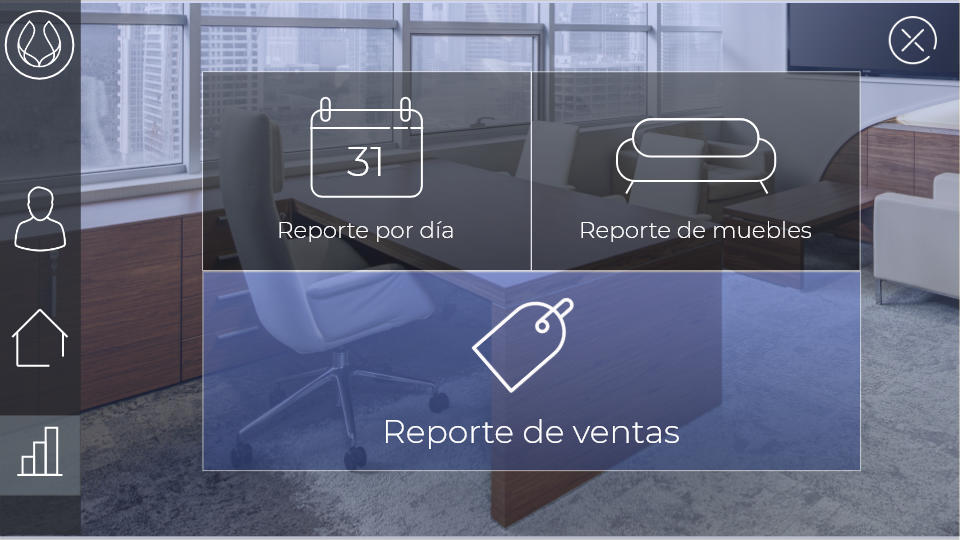
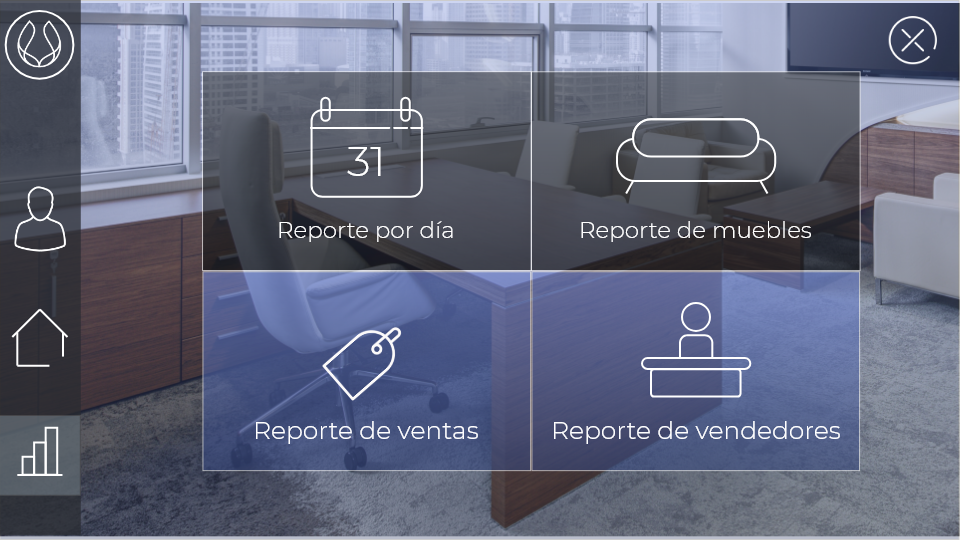
Improvements

diff --git a/P&M/src/view/Employee/ManagerMenu.java b/P&M/src/view/Employee/ManagerMenu.java
@@ -8,6 +8,7 @@ package view.Employee;
 import view.Branch.ListBranches;
 import view.Branch.ModifyBranch;
 import view.Branch.AddBranch;
+import view.Seller.ReportSellers;
 import controller.*;
 /**
  *
@@ -34,6 +35,15 @@ public class ManagerMenu extends javax.swing.JFrame {
     // <editor-fold defaultstate="collapsed" desc="Generated Code">//GEN-BEGIN:initComponents
     private void initComponents() {
 
+        reportOptionPanel = new javax.swing.JPanel();
+        reportDayLabel = new javax.swing.JLabel();
+        furnitureReportLabel = new javax.swing.JLabel();
+        totalReportLabel = new javax.swing.JLabel();
+        userLabel1 = new javax.swing.JLabel();
+        branchLabel1 = new javax.swing.JLabel();
+        exitBranch1 = new javax.swing.JLabel();
+        sellerReport = new javax.swing.JLabel();
+        reportBackground = new javax.swing.JLabel();
         userOptionPanel = new javax.swing.JPanel();
         addLabel = new javax.swing.JLabel();
         searchLabel = new javax.swing.JLabel();
@@ -43,14 +53,6 @@ public class ManagerMenu extends javax.swing.JFrame {
         branchLabel = new javax.swing.JLabel();
         reportLabel = new javax.swing.JLabel();
         userBackground = new javax.swing.JLabel();
-        reportOptionPanel = new javax.swing.JPanel();
-        reportDayLabel = new javax.swing.JLabel();
-        furnitureReportLabel = new javax.swing.JLabel();
-        totalReportLabel = new javax.swing.JLabel();
-        userLabel1 = new javax.swing.JLabel();
-        branchLabel1 = new javax.swing.JLabel();
-        exitBranch1 = new javax.swing.JLabel();
-        reportBackground = new javax.swing.JLabel();
         branchOptionPanel = new javax.swing.JPanel();
         addBranchLabel = new javax.swing.JLabel();
         searchBranchLabel = new javax.swing.JLabel();
@@ -63,6 +65,62 @@ public class ManagerMenu extends javax.swing.JFrame {
         setDefaultCloseOperation(javax.swing.WindowConstants.EXIT_ON_CLOSE);
         setUndecorated(true);
         getContentPane().setLayout(new org.netbeans.lib.awtextra.AbsoluteLayout());
+
+        reportOptionPanel.setLayout(new org.netbeans.lib.awtextra.AbsoluteLayout());
+
+        reportDayLabel.addMouseListener(new java.awt.event.MouseAdapter() {
+            public void mouseClicked(java.awt.event.MouseEvent evt) {
+                reportDayLabelMouseClicked(evt);
+            }
+        });
+        reportOptionPanel.add(reportDayLabel, new org.netbeans.lib.awtextra.AbsoluteConstraints(201, 70, 330, 200));
+
+        furnitureReportLabel.addMouseListener(new java.awt.event.MouseAdapter() {
+            public void mouseClicked(java.awt.event.MouseEvent evt) {
+                furnitureReportLabelMouseClicked(evt);
+            }
+        });
+        reportOptionPanel.add(furnitureReportLabel, new org.netbeans.lib.awtextra.AbsoluteConstraints(530, 70, 330, 200));
+
+        totalReportLabel.addMouseListener(new java.awt.event.MouseAdapter() {
+            public void mouseClicked(java.awt.event.MouseEvent evt) {
+                totalReportLabelMouseClicked(evt);
+            }
+        });
+        reportOptionPanel.add(totalReportLabel, new org.netbeans.lib.awtextra.AbsoluteConstraints(200, 270, 330, 200));
+
+        userLabel1.addMouseListener(new java.awt.event.MouseAdapter() {
+            public void mouseClicked(java.awt.event.MouseEvent evt) {
+                userLabel1MouseClicked(evt);
+            }
+        });
+        reportOptionPanel.add(userLabel1, new org.netbeans.lib.awtextra.AbsoluteConstraints(10, 180, 60, 80));
+
+        branchLabel1.addMouseListener(new java.awt.event.MouseAdapter() {
+            public void mouseClicked(java.awt.event.MouseEvent evt) {
+                branchLabel1MouseClicked(evt);
+            }
+        });
+        reportOptionPanel.add(branchLabel1, new org.netbeans.lib.awtextra.AbsoluteConstraints(10, 300, 60, 80));
+
+        exitBranch1.addMouseListener(new java.awt.event.MouseAdapter() {
+            public void mouseClicked(java.awt.event.MouseEvent evt) {
+                exitBranch1MouseClicked(evt);
+            }
+        });
+        reportOptionPanel.add(exitBranch1, new org.netbeans.lib.awtextra.AbsoluteConstraints(890, 20, 50, 50));
+
+        sellerReport.addMouseListener(new java.awt.event.MouseAdapter() {
+            public void mouseClicked(java.awt.event.MouseEvent evt) {
+                sellerReportMouseClicked(evt);
+            }
+        });
+        reportOptionPanel.add(sellerReport, new org.netbeans.lib.awtextra.AbsoluteConstraints(530, 270, 330, 200));
+
+        reportBackground.setIcon(new javax.swing.ImageIcon(getClass().getResource("/ui_resources/Manager Menu - Reports.png"))); // NOI18N
+        reportOptionPanel.add(reportBackground, new org.netbeans.lib.awtextra.AbsoluteConstraints(0, 0, 960, 540));
+
+        getContentPane().add(reportOptionPanel, new org.netbeans.lib.awtextra.AbsoluteConstraints(0, 0, 960, 540));
 
         userOptionPanel.setLayout(new org.netbeans.lib.awtextra.AbsoluteLayout());
 
@@ -119,55 +177,6 @@ public class ManagerMenu extends javax.swing.JFrame {
         userOptionPanel.add(userBackground, new org.netbeans.lib.awtextra.AbsoluteConstraints(0, 0, -1, -1));
 
         getContentPane().add(userOptionPanel, new org.netbeans.lib.awtextra.AbsoluteConstraints(0, 0, -1, -1));
-
-        reportOptionPanel.setLayout(new org.netbeans.lib.awtextra.AbsoluteLayout());
-
-        reportDayLabel.addMouseListener(new java.awt.event.MouseAdapter() {
-            public void mouseClicked(java.awt.event.MouseEvent evt) {
-                reportDayLabelMouseClicked(evt);
-            }
-        });
-        reportOptionPanel.add(reportDayLabel, new org.netbeans.lib.awtextra.AbsoluteConstraints(201, 70, 330, 200));
-
-        furnitureReportLabel.addMouseListener(new java.awt.event.MouseAdapter() {
-            public void mouseClicked(java.awt.event.MouseEvent evt) {
-                furnitureReportLabelMouseClicked(evt);
-            }
-        });
-        reportOptionPanel.add(furnitureReportLabel, new org.netbeans.lib.awtextra.AbsoluteConstraints(530, 70, 330, 200));
-
-        totalReportLabel.addMouseListener(new java.awt.event.MouseAdapter() {
-            public void mouseClicked(java.awt.event.MouseEvent evt) {
-                totalReportLabelMouseClicked(evt);
-            }
-        });
-        reportOptionPanel.add(totalReportLabel, new org.netbeans.lib.awtextra.AbsoluteConstraints(200, 270, 660, 200));
-
-        userLabel1.addMouseListener(new java.awt.event.MouseAdapter() {
-            public void mouseClicked(java.awt.event.MouseEvent evt) {
-                userLabel1MouseClicked(evt);
-            }
-        });
-        reportOptionPanel.add(userLabel1, new org.netbeans.lib.awtextra.AbsoluteConstraints(10, 180, 60, 80));
-
-        branchLabel1.addMouseListener(new java.awt.event.MouseAdapter() {
-            public void mouseClicked(java.awt.event.MouseEvent evt) {
-                branchLabel1MouseClicked(evt);
-            }
-        });
-        reportOptionPanel.add(branchLabel1, new org.netbeans.lib.awtextra.AbsoluteConstraints(10, 300, 60, 80));
-
-        exitBranch1.addMouseListener(new java.awt.event.MouseAdapter() {
-            public void mouseClicked(java.awt.event.MouseEvent evt) {
-                exitBranch1MouseClicked(evt);
-            }
-        });
-        reportOptionPanel.add(exitBranch1, new org.netbeans.lib.awtextra.AbsoluteConstraints(890, 20, 50, 50));
-
-        reportBackground.setIcon(new javax.swing.ImageIcon(getClass().getResource("/ui_resources/Manager Menu - Reports.png"))); // NOI18N
-        reportOptionPanel.add(reportBackground, new org.netbeans.lib.awtextra.AbsoluteConstraints(0, 0, 960, 540));
-
-        getContentPane().add(reportOptionPanel, new org.netbeans.lib.awtextra.AbsoluteConstraints(0, 0, 960, 540));
 
         branchOptionPanel.setLayout(new org.netbeans.lib.awtextra.AbsoluteLayout());
 
@@ -324,6 +333,12 @@ public class ManagerMenu extends javax.swing.JFrame {
         this.reportOptionPanel.setVisible(true);
     }//GEN-LAST:event_reportBranchLabelMouseClicked
 
+    private void sellerReportMouseClicked(java.awt.event.MouseEvent evt) {//GEN-FIRST:event_sellerReportMouseClicked
+        ReportSellers report = new ReportSellers(controller_);
+        report.setLocationRelativeTo(null);
+        report.setVisible(true);
+    }//GEN-LAST:event_sellerReportMouseClicked
+
 
     // Variables declaration - do not modify//GEN-BEGIN:variables
     private javax.swing.JLabel addBranchLabel;
@@ -346,6 +361,7 @@ public class ManagerMenu extends javax.swing.JFrame {
     private javax.swing.JPanel reportOptionPanel;
     private javax.swing.JLabel searchBranchLabel;
     private javax.swing.JLabel searchLabel;
+    private javax.swing.JLabel sellerReport;
     private javax.swing.JLabel totalReportLabel;
     private javax.swing.JLabel userBackground;
     private javax.swing.JLabel userLabel;

diff --git a/P&M/src/view/Employee/AddEmployee.java b/P&M/src/view/Employee/AddEmployee.java
@@ -71,7 +71,7 @@ public class AddEmployee extends javax.swing.JFrame {
                 idTextFieldKeyTyped(evt);
             }
         });
-        getContentPane().add(idTextField, new org.netbeans.lib.awtextra.AbsoluteConstraints(50, 100, 230, 30));
+        getContentPane().add(idTextField, new org.netbeans.lib.awtextra.AbsoluteConstraints(40, 100, 240, 30));
 
         nameTextField.setBackground(new java.awt.Color(255, 255, 255, 0));
         nameTextField.setForeground(new java.awt.Color(255, 255, 255));
@@ -86,12 +86,12 @@ public class AddEmployee extends javax.swing.JFrame {
                 nameTextFieldKeyTyped(evt);
             }
         });
-        getContentPane().add(nameTextField, new org.netbeans.lib.awtextra.AbsoluteConstraints(50, 170, 230, 30));
+        getContentPane().add(nameTextField, new org.netbeans.lib.awtextra.AbsoluteConstraints(40, 170, 240, 30));
 
         chargeCombo.setForeground(new java.awt.Color(44, 47, 51));
         chargeCombo.setModel(new javax.swing.DefaultComboBoxModel<>(new String[] { "-", "Vendedor", "Jefe de Taller" }));
         chargeCombo.setBorder(null);
-        getContentPane().add(chargeCombo, new org.netbeans.lib.awtextra.AbsoluteConstraints(50, 230, 230, 30));
+        getContentPane().add(chargeCombo, new org.netbeans.lib.awtextra.AbsoluteConstraints(40, 230, 240, 30));
 
         salaryTextField.setBackground(new java.awt.Color(255, 255, 255, 0));
         salaryTextField.setForeground(new java.awt.Color(255, 255, 255));
@@ -121,12 +121,12 @@ public class AddEmployee extends javax.swing.JFrame {
                 phoneNumberTextFieldKeyTyped(evt);
             }
         });
-        getContentPane().add(phoneNumberTextField, new org.netbeans.lib.awtextra.AbsoluteConstraints(50, 360, 240, 30));
+        getContentPane().add(phoneNumberTextField, new org.netbeans.lib.awtextra.AbsoluteConstraints(40, 360, 240, 30));
 
         passwordField.setBackground(new java.awt.Color(255, 255, 255, 0));
         passwordField.setForeground(new java.awt.Color(255, 255, 255));
         passwordField.setBorder(null);
-        getContentPane().add(passwordField, new org.netbeans.lib.awtextra.AbsoluteConstraints(50, 420, 240, 30));
+        getContentPane().add(passwordField, new org.netbeans.lib.awtextra.AbsoluteConstraints(40, 420, 240, 30));
 
         addButton.addMouseListener(new java.awt.event.MouseAdapter() {
             public void mouseClicked(java.awt.event.MouseEvent evt) {
@@ -142,7 +142,7 @@ public class AddEmployee extends javax.swing.JFrame {
         });
         getContentPane().add(exitButton, new org.netbeans.lib.awtextra.AbsoluteConstraints(270, 0, 50, 40));
 
-        getContentPane().add(BranchComboBox, new org.netbeans.lib.awtextra.AbsoluteConstraints(160, 290, 130, 30));
+        getContentPane().add(BranchComboBox, new org.netbeans.lib.awtextra.AbsoluteConstraints(150, 290, 130, 30));
 
         UI.setIcon(new javax.swing.ImageIcon(getClass().getResource("/ui_resources/Add Employee Menu.png"))); // NOI18N
         getContentPane().add(UI, new org.netbeans.lib.awtextra.AbsoluteConstraints(0, 0, -1, -1));

diff --git a/P&M/src/view/Employee/SearchEmployees.java b/P&M/src/view/Employee/SearchEmployees.java
@@ -71,7 +71,7 @@ public class SearchEmployees extends javax.swing.JFrame {
                 idTextFieldKeyTyped(evt);
             }
         });
-        getContentPane().add(idTextField, new org.netbeans.lib.awtextra.AbsoluteConstraints(90, 100, 160, 20));
+        getContentPane().add(idTextField, new org.netbeans.lib.awtextra.AbsoluteConstraints(100, 90, 150, 30));
 
         nameTextField.setBackground(new java.awt.Color(255, 255, 255, 0));
         nameTextField.setColumns(5);
@@ -82,7 +82,7 @@ public class SearchEmployees extends javax.swing.JFrame {
                 nameTextFieldKeyTyped(evt);
             }
         });
-        getContentPane().add(nameTextField, new org.netbeans.lib.awtextra.AbsoluteConstraints(340, 100, 150, 20));
+        getContentPane().add(nameTextField, new org.netbeans.lib.awtextra.AbsoluteConstraints(340, 90, 150, 30));
 
         chargeComboBox.setModel(new javax.swing.DefaultComboBoxModel<>(new String[] { "Todos", "Gerente", "Vendedor", "Jefe de Taller" }));
         chargeComboBox.setToolTipText("");
@@ -134,10 +134,10 @@ public class SearchEmployees extends javax.swing.JFrame {
                 branchComboBoxActionPerformed(evt);
             }
         });
-        getContentPane().add(branchComboBox, new org.netbeans.lib.awtextra.AbsoluteConstraints(90, 170, 170, 30));
+        getContentPane().add(branchComboBox, new org.netbeans.lib.awtextra.AbsoluteConstraints(90, 160, 170, 30));
 
         UI.setIcon(new javax.swing.ImageIcon(getClass().getResource("/ui_resources/Search Employee Menu.png"))); // NOI18N
-        getContentPane().add(UI, new org.netbeans.lib.awtextra.AbsoluteConstraints(0, 0, 840, -1));
+        getContentPane().add(UI, new org.netbeans.lib.awtextra.AbsoluteConstraints(0, 0, 840, 530));
 
         pack();
     }// </editor-fold>//GEN-END:initComponents

diff --git a/P&M/src/view/Foreman/CreateCommission.java b/P&M/src/view/Foreman/CreateCommission.java
@@ -53,7 +53,7 @@ public class CreateCommission extends javax.swing.JFrame {
 
         furnitureComboBox.setModel(new javax.swing.DefaultComboBoxModel<>(new String[] { "-" }));
         furnitureComboBox.setBorder(null);
-        getContentPane().add(furnitureComboBox, new org.netbeans.lib.awtextra.AbsoluteConstraints(40, 100, 240, 30));
+        getContentPane().add(furnitureComboBox, new org.netbeans.lib.awtextra.AbsoluteConstraints(30, 100, 260, 40));
 
         quantityTextField.setBackground(new java.awt.Color(255, 255, 255, 0));
         quantityTextField.setBorder(null);
@@ -71,7 +71,7 @@ public class CreateCommission extends javax.swing.JFrame {
 
         branchComboBox.setModel(new javax.swing.DefaultComboBoxModel<>(new String[] { "-" }));
         branchComboBox.setBorder(null);
-        getContentPane().add(branchComboBox, new org.netbeans.lib.awtextra.AbsoluteConstraints(40, 175, 130, 20));
+        getContentPane().add(branchComboBox, new org.netbeans.lib.awtextra.AbsoluteConstraints(30, 175, 150, 30));
 
         addCommission.addMouseListener(new java.awt.event.MouseAdapter() {
             public void mouseClicked(java.awt.event.MouseEvent evt) {

diff --git a/P&M/src/view/Foreman/ModifyCommission.java b/P&M/src/view/Foreman/ModifyCommission.java
@@ -84,7 +84,7 @@ public class ModifyCommission extends javax.swing.JFrame {
 
         StatusComboBox.setModel(new javax.swing.DefaultComboBoxModel<>(new String[] { "Terminado", "En proceso" }));
         StatusComboBox.setBorder(null);
-        getContentPane().add(StatusComboBox, new org.netbeans.lib.awtextra.AbsoluteConstraints(50, 390, 270, -1));
+        getContentPane().add(StatusComboBox, new org.netbeans.lib.awtextra.AbsoluteConstraints(50, 385, 270, 30));
 
         modifyLabel.addMouseListener(new java.awt.event.MouseAdapter() {
             public void mouseClicked(java.awt.event.MouseEvent evt) {

diff --git a/P&M/src/view/Seller/ReportSellers.java b/P&M/src/view/Seller/ReportSellers.java
@@ -58,6 +58,7 @@ public class ReportSellers extends javax.swing.JFrame {
         background = new javax.swing.JLabel();
 
         setDefaultCloseOperation(javax.swing.WindowConstants.EXIT_ON_CLOSE);
+        setUndecorated(true);
         getContentPane().setLayout(new org.netbeans.lib.awtextra.AbsoluteLayout());
 
         ChartPanel.setBorder(javax.swing.BorderFactory.createLineBorder(new java.awt.Color(153, 153, 153)));
